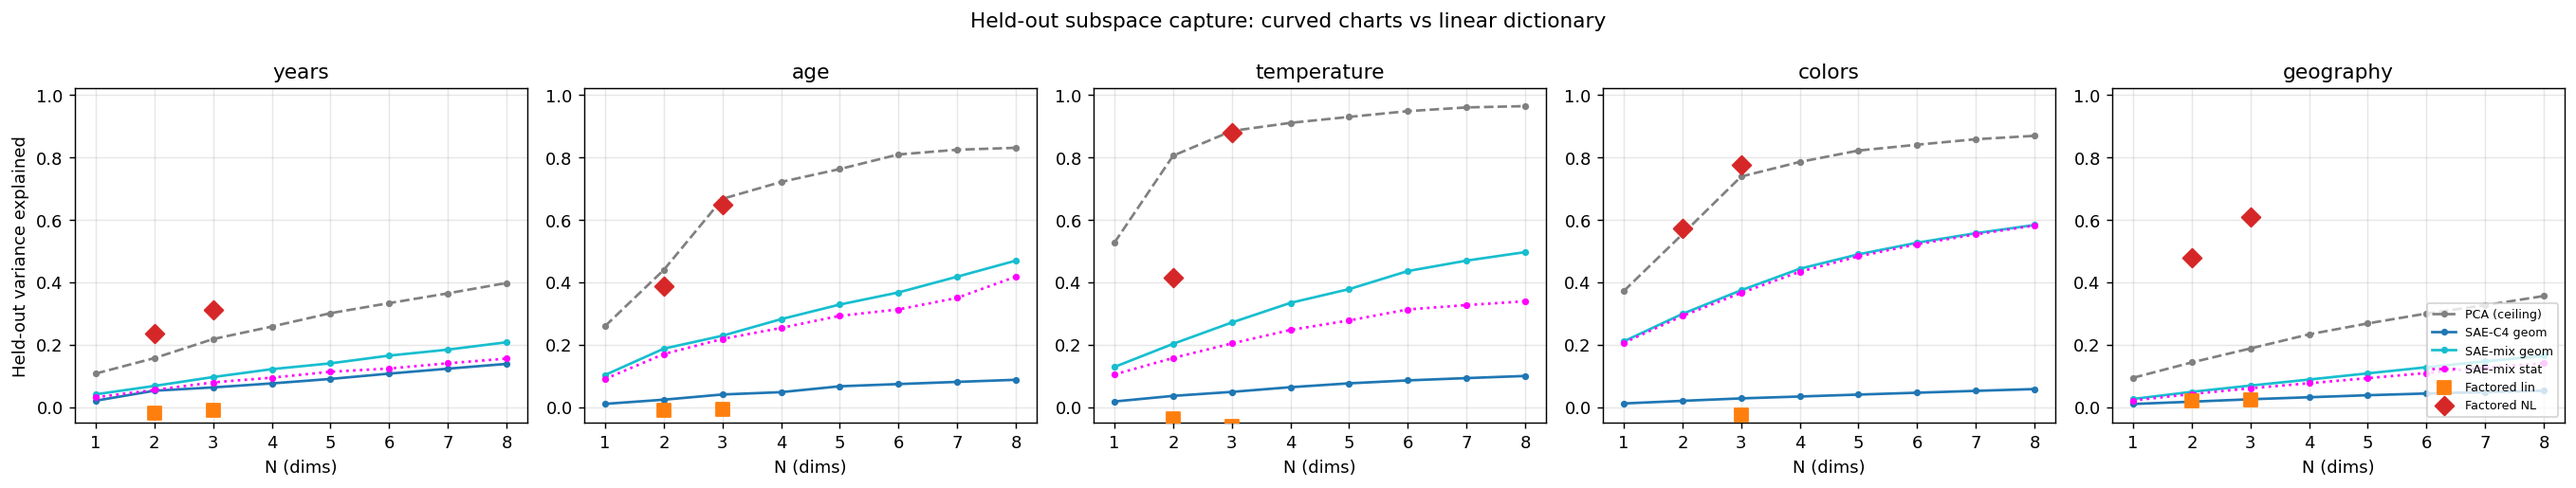
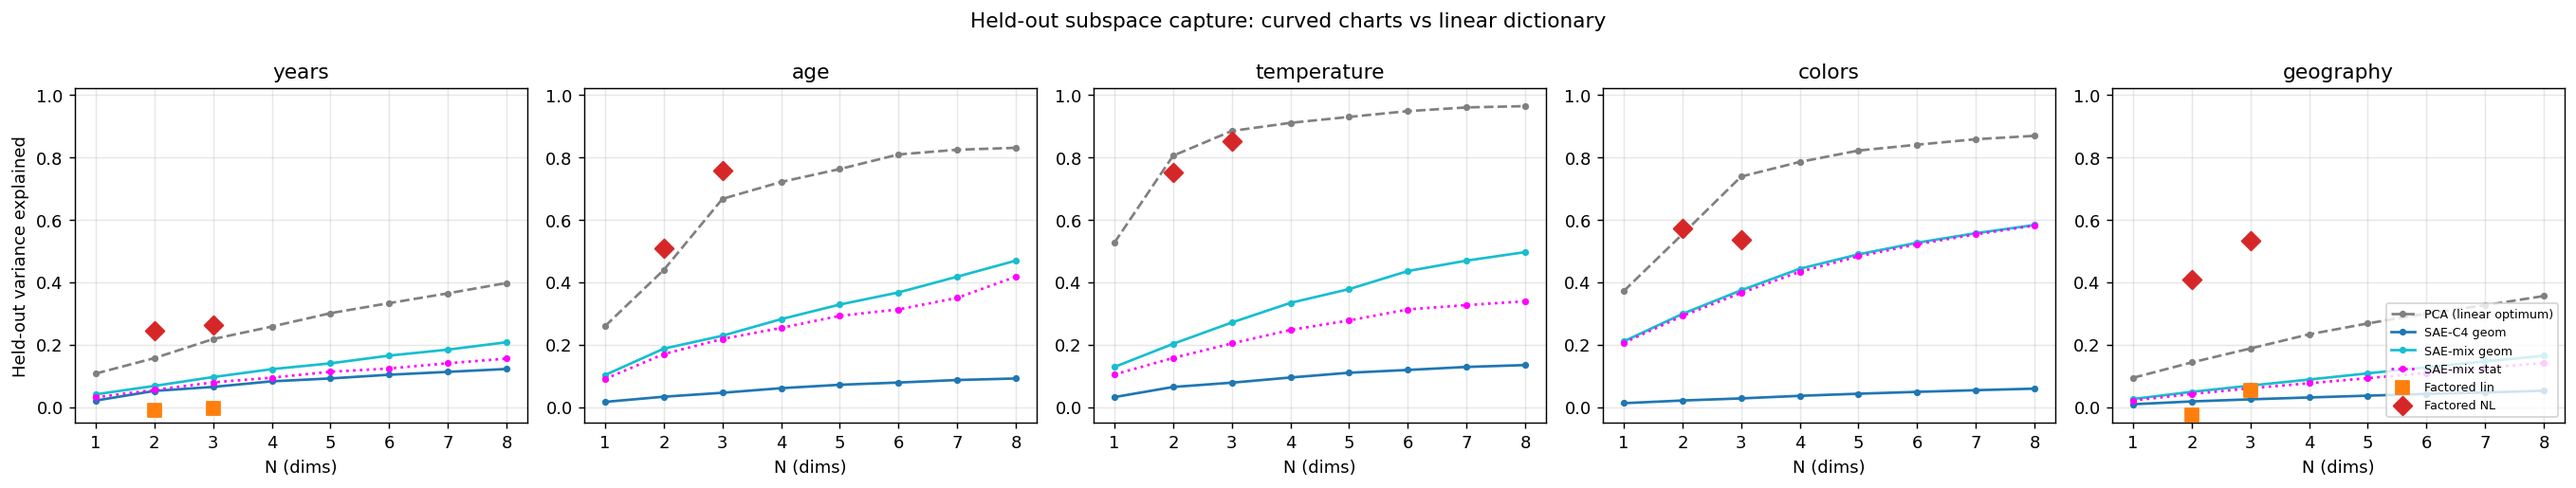
figures: fix misleading labels (PCA "ceiling" + "Pareto")
The ve_curves legend called PCA the "ceiling", but the headline Factored-NL
result deliberately exceeds it (a curved chart beats the optimal *linear*
subspace) — self-contradictory. Relabel -> "PCA (linear optimum)".

The legible-coord panels were titled a "Pareto" frontier, but they just
connect the lam points in lam order (lines zig-zag / self-intersect).
Retitle -> "...trade-off ... (points connected in lam_label order — not a
Pareto frontier)".

Pure label changes; re-rendered the two affected Llama-8B figures from the
existing results.json (no model/SAE — data unchanged). The iso/adaptive
pareto titles already said "fidelity vs legibility" (no false Pareto claim)
so were left as-is.

diff --git a/prototype/fair_comparison.py b/prototype/fair_comparison.py
@@ -520,7 +520,7 @@ def _ms(vals):
 def _report(manifolds, ve, lab, coord_dims, N, seeds):
     methods = ["pca", "sae_c4_geo", "sae_c4_stat", "sae_mix_geo", "sae_mix_stat",
                "factored_lin", "factored_nl"]
-    label = {"pca": "PCA (linear ceiling)", "sae_c4_geo": "SAE-C4 geometric",
+    label = {"pca": "PCA (linear optimum)", "sae_c4_geo": "SAE-C4 geometric",
              "sae_c4_stat": "SAE-C4 statistical", "sae_mix_geo": "SAE-mix geometric",
              "sae_mix_stat": "SAE-mix statistical",
              "factored_lin": "Factored LINEAR", "factored_nl": "Factored NONLINEAR"}
@@ -572,7 +572,7 @@ def _plot(manifolds, ve, maxN, coord_dims, seeds):
     ncol = len(names)
     fig, axes = plt.subplots(1, ncol, figsize=(4.2 * ncol, 4), squeeze=False)
     Ns = np.arange(1, maxN + 1)
-    line_methods = [("pca", "gray", "--", "PCA (ceiling)"),
+    line_methods = [("pca", "gray", "--", "PCA (linear optimum)"),
                     ("sae_c4_geo", "tab:blue", "-", "SAE-C4 geom"),
                     ("sae_mix_geo", "tab:cyan", "-", "SAE-mix geom"),
                     ("sae_mix_stat", "magenta", ":", "SAE-mix stat")]

diff --git a/prototype/legible_coord.py b/prototype/legible_coord.py
@@ -254,8 +254,8 @@ def _plot(manifolds, lams, ve, r2lin, pca_r2, cd):
         ax.set_title(m + cyc); ax.set_xlabel("held-out label R²")
         ax.grid(alpha=0.3); ax.legend(fontsize=7, loc="lower left")
     axes[0][0].set_ylabel(f"held-out VE@{cd}")
-    fig.suptitle("Fidelity ↔ legibility Pareto as label-alignment weight increases "
-                 "(labels = lam_label)")
+    fig.suptitle("Fidelity ↔ legibility trade-off as label-alignment weight increases "
+                 "(points connected in lam_label order — not a Pareto frontier)")
     fig.tight_layout()
     path = RESULTS_DIR / "pareto.png"
     fig.savefig(path, dpi=130, bbox_inches="tight")
